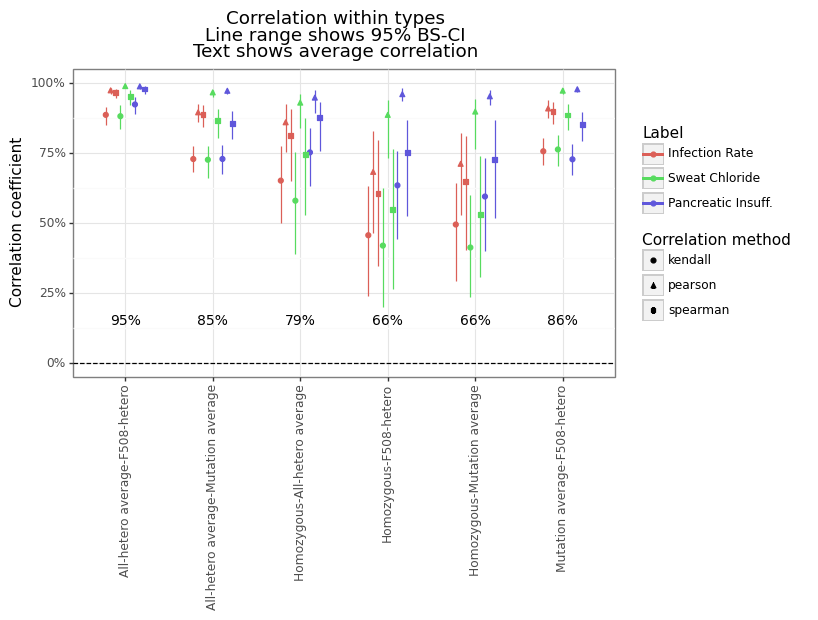
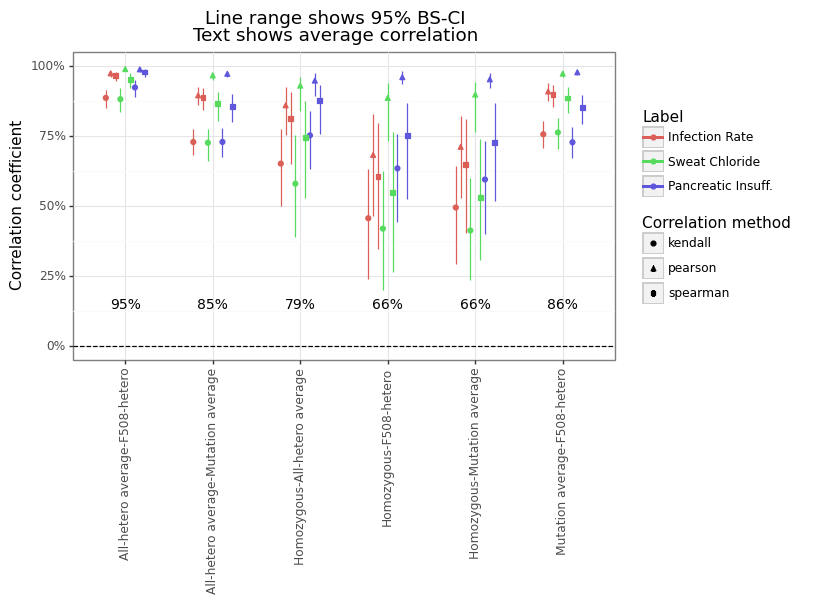
part 1 of revisions to CFTR

diff --git a/_posts/2023-03-20-cftr2_esmfold.md b/_posts/2023-03-20-cftr2_esmfold.md
@@ -9,13 +9,15 @@ mathjax: true
 
 # Executive summary
 
-This shows how embeddings from the [ESMFold](https://github.com/facebookresearch/esm) model can be used to predict (average) clinical outcomes for different Cystic Fibrosis (CF) genotypes (mutations). This technical post serves as a complement to bioRxiv paper (under development), "Association between Cystic Fibrosis outcomes ESMFold Embeddings". A summary of this post and the paper is as follows:
+Embeddings from the [ESMFold](https://github.com/facebookresearch/esm) model can be used to predict clinical outcomes for different Cystic Fibrosis (CF) genotypes found in the CFTR2 database. The predictive correlation is both non-trivial and statistically significant. This work goes beyond the usual pathogenic/benign distinction and seeks to estimate average clinical outcomes for key CF-related phenotypes (sweat chloride, pancreatic insufficiency, and infection rates). 
 
-1. There is substantial variation in (average) clinical outcomes: [between mutations](#fig0), [within mutations](#fig9), [between categories](#fig5), and [within categories](#fig6), showing that any ML model needs to predict multiple labels to capture the different aspects of CF mutations' pathogenicity.
-2. Using an off-the-shelf ML model trained on protein folding embeddings from ESMFold obtains non-trivial and statistically significant correlations between the predicted and actual clinical values for a range of categories and labels (see [Figure 14](#fig14)).
-3. ML models improve predictive correlation by up to 13 percentage points (pp) for Pseudomonas infection rate, 36pp for pancreatic insufficiency, and 27pp for sweat chloride levels.
-4. Access to more of the underlying clinical information, additional computational power, and processing could help to double the effective sample size.
-5. This work shows that using ML models trained on features from a protein's fundamental could help to augment existing pathogenicity scores and rank >1000 CFTR-gene mutations found in the CFTR1 database which do not have an established significance in the CFTR2 database.
+A summary of this post and the paper is as follows: 
+
+1. There is substantial variation in (average) clinical outcomes: [between mutations](#fig0), [within mutations](#fig9), [between categories](#fig5), and [within categories](#fig6). Therefore, any ML model needs to be able to predict multiple labels to capture the different aspects of a CF mutation's pathogenicity.
+2. Using an off-the-shelf ML model trained on protein folding embeddings from ESMFold obtains non-trivial and statistically significant correlations between the predicted and actual clinical values for a range of categories and labels (see [Figure 14](#fig14)). 
+3. ML models improve predictive correlation by up to 13 percentage points (pp) for Pseudomonas infection rate, 36pp for pancreatic insufficiency, and 27pp for sweat chloride levels compared to a simple model which uses only the amino acid length. The overall level of correlation ranges from 16-65%. No predictive performance was found for lung function. 
+4. Access to more of the underlying clinical information, additional computational power, and additional processing could double the effective sample size.
+5. Using ML models trained exclusively on CFTR structural forms and clinical outcome categories (sweat chloride, pancreatic function, infection rates) could establish CF-specific pathogenicity scores that go beyond the usual dichotomous predictions of existing tool. There are >1000 CFTR-gene mutations found in the CFTR1 database which do not have an established significance in the CFTR2 database.
 
 The repo used to generate all analyses and figures can be found here: [cftr2_esmfold](https://github.com/ErikinBC/cftr2_esmfold). 
 
@@ -30,9 +32,7 @@ Cystic fibrosis (CF) is a rare autosomal recessive genetic disease that can resu
 
 The disease's etiology is caused by mutations to the cystic transmembrane conductance regulator (CFTR) gene which cause an alteration in the chloride and bicarbonate transport channel regulated by cyclic adenosine monophosphate (cAMP). This can lead to a pathological build up of mucus in the organs, with the most substantial deleterious impact being on the lungs and the pancreas. As of March 20th, 2023, a total of [2114 mutations](http://www.genet.sickkids.on.ca/StatisticsPage.html) have been discovered on the CFTR gene, with 401 of those being identified as [CF-causing](https://cftr2.org/mutations_history). The most common mutation is F508del (aka c.1521_1523delCTT, aka p.Phe508del), which is [present in 82%](https://www.frontiersin.org/articles/10.3389/fphar.2019.01662/full) of the CF population.
 
-Unlike some of the [false hype](https://bioeconometrician.github.io/first_cell/) and [superlatives](https://jamanetwork.com/journals/jamaoncology/fullarticle/2464965) we see in other branches of medicine, the treatment and survival of CF patients have remarkably changed in recent history. Before the use of antibiotics, patients with CF were unlikely to live past their teens since their lung infections could not be treated. 
-
-As of 2019, the [median life expectancy](https://www.ncbi.nlm.nih.gov/pmc/articles/PMC9004282/) of CF patients in the United States was 48 years, although there is a range of about 10 years across wealthy countries.  For example, [Canada](https://www.cbc.ca/news/health/cystic-fibrosis-survival-rates-1.4022970) is a world leader in CF life expectancy (mid-50s). However, the last decade has been a game changer for pharmaceutical-based treatments of CF.
+Unlike some of the [false hype](https://bioeconometrician.github.io/first_cell/) and [superlatives](https://jamanetwork.com/journals/jamaoncology/fullarticle/2464965) we see in other branches of medicine, the treatment and survival of CF patients have remarkably changed in recent history. Historically, before the use of antibiotics, patients with CF were unlikely to live past their teens since their lung infections could not be treated. As of 2019, the [median life expectancy](https://www.ncbi.nlm.nih.gov/pmc/articles/PMC9004282/) of CF patients in the United States was 48 years, although there is a range of about 10 years across wealthy countries.  For example, [Canada](https://www.cbc.ca/news/health/cystic-fibrosis-survival-rates-1.4022970) is a world leader in CF life expectancy (mid-50s). However, the last decade has been a game changer for pharmaceutical-based treatments of CF.
 
 Modern CF-treating drugs rely on a mechanism of action which increases the flow of sodium and chloride ions across the cell membrane to maintain a proper fluid balance. The current state-of-the-art treatment, known as [Trikafta](https://en.wikipedia.org/wiki/Elexacaftor/tezacaftor/ivacaftor), is a combination of three small-molecule different drugs: Ivacaftor, Elexacaftor, and Tezacaftor. The first, Ivacaftor, which is a CFTR channel potentiator, binds to the CFTR protein and increases its ability to open chloride channels. The other two are CFTR correctors, which help the protein form the right 3D shape. 
 
@@ -46,46 +46,36 @@ A [recent Canadian study](https://www.cysticfibrosisjournal.com/article/S1569-19
 
 Mutations to the exonic (protein-coding) region of the CFTR gene can have disease-causing properties because they can alter the amino acid sequence of the gene.[[^1]] For example, patients with the [F508del mutation](https://www.ncbi.nlm.nih.gov/snp/rs113993960#variant_details) are missing three DNA codons which code for the phenylalanine amino acid. Even though the other 1479 amino acids in the gene match the wildtype protein, the absence of this critical amino acid impacts the ability of the different CFTR protein domains (structurally distinct parts of the protein) from coming together. The F508del-CFTR gene is sufficiently degraded in structure that the cell's native proteasome machinery will "throw out" the protein before it can make its way to the cell surface and do its work *vis-a-vis* chloride channels.
 
-The key takeaway of structural biology is at that function follows form at the molecular level. This means that the 3-dimensional structure of a protein significantly impacts its ability to due its job. In contrast, the information that encodes the protein is linear. Regions of the DNA known as exons are converted to mRNA (a 1-to-1 mapping), and then to amino acids (a many-to-one mapping). Proteins are made up of amino acids. There is a deterministic relationship between a sequence of DNA which is transcribed and the sequence of amino acids that will be strung together to form a protein. What is not known *a priori* is how that sequence of amino acids will fold in 3-dimensional space and what structure it will take up. This is often referring to as the "[protein folding](https://en.wikipedia.org/wiki/Protein_folding) problem." 
+The key takeaway of structural biology is that function follows form at the molecular level. This means that the 3-dimensional structure of a protein determines whether the proteins will be able to carry out its function. In contrast, the information that encodes the protein is linear. Regions of the DNA known as exons are converted to mRNA (a 1-to-1 mapping), and then to amino acids (a many-to-one mapping). Proteins are made up of amino acids. There is a deterministic relationship between a sequence of DNA which is transcribed and the sequence of amino acids that will be strung together to form a protein. What is not known *a priori* is how that sequence of amino acids will fold in 3-dimensional space and what structure it will take up. This is often referred to as the "[protein folding](https://en.wikipedia.org/wiki/Protein_folding) problem." 
 
-The fact that an unfolded sequence of amino acids (or polypeptides) always folds to the "correct" shape is somewhat astounding given the astronomical number of combinations in which a protein *could* fold (see [Levinthal's paradox](https://en.wikipedia.org/wiki/Levinthal%27s_paradox)). How exactly proteins do this is still an area of active research, but it is generally understood that proteins fold in a way which minimizes free energy (see [Anfinsen's dogma](https://en.wikipedia.org/wiki/Anfinsen%27s_dogma)). This hypothesis explains why proteins (tend) to fold the same way every time, since they fold in a way which minimizes some optimization problem. 
+The fact that an unfolded sequence of amino acids (or polypeptides) almost always folds to the "correct" shape is somewhat astounding given the astronomical number of combinations in which a protein *could* fold (see [Levinthal's paradox](https://en.wikipedia.org/wiki/Levinthal%27s_paradox)). How exactly proteins do this is still an area of active research, but it is generally understood that proteins fold in a way which minimizes free energy (see [Anfinsen's dogma](https://en.wikipedia.org/wiki/Anfinsen%27s_dogma)). This hypothesis explains why proteins (tend) to fold the same way every time, since they fold in a way which minimizes some optimization problem. 
 
+If we understood exactly why proteins fold the way they do, then we could predict how they would fold. Yet even if we cannot understand the physical mechanism by which this happens, simply being able to predict the 3D shape is useful in and of itself. For example, F508del shows us that knowing the physical shape of the protein helps to explain its [key pathologies](https://www.sciencedirect.com/science/article/pii/S1471489217301285). 
 
-If we understood exactly why proteins fold the way they do, then we could of course predict how they would fold. Yet even if we cannot understand the physical mechanism by which this happens, simply being able to predict the 3D shape is useful in and of itself. For example, F508del shows us that knowing the physical shape of the protein helps to explain its [key pathologies](https://www.sciencedirect.com/science/article/pii/S1471489217301285). 
-
-Enter [AlphaFold](https://www.nature.com/articles/s41586-021-03819-2), a deep learning algorithm which predicts the 3D structure of a protein using a sequence of amino acids as an input. AlphaFold (2018) and AlphaFold2 (2020) were both able to blow their competitors out of the water at the 2018 and 2020 Critical Assessment of Structure Prediction ([CASP](https://en.wikipedia.org/wiki/CASP)) competition. While the claim by some that AlphaFold2 ["solved"](https://www.scientificamerican.com/article/one-of-the-biggest-problems-in-biology-has-finally-been-solved/) the protein folding problem is of course erroneous, it nevertheless has proven to be a ground-breaking and powerful tool for researchers. As [McBride et. al (2022)](https://www.biorxiv.org/content/10.1101/2022.04.14.488301v1.full) put it:
+Enter [AlphaFold](https://www.nature.com/articles/s41586-021-03819-2), a deep learning algorithm which predicts the 3D structure of a protein using a sequence of amino acids as an input. AlphaFold (2018) and AlphaFold2 (2020) were both able to blow their competitors out of the water at the 2018 and 2020 Critical Assessment of Structure Prediction ([CASP](https://en.wikipedia.org/wiki/CASP)) competition. While the claim by some that AlphaFold2 ["solved"](https://www.scientificamerican.com/article/one-of-the-biggest-problems-in-biology-has-finally-been-solved/) the protein folding problem is of course erroneous, it nevertheless has proven to be a ground-breaking and powerful tool for researchers. As [McBride et al. (2022)](https://www.biorxiv.org/content/10.1101/2022.04.14.488301v1.full) put it:
 
 > AF2 can clearly predict global structure, yet we do not know whether it is sensitive
 enough to detect small, local effects of single mutations. Even if AF2 achieves high accuracy, the effect of a mutation may be small compared to the inherent conformational dynamics of the protein – predicting static structures may not be particularly informative. Furthermore, as accuracy improves, evaluating the quality of predictions becomes increasingly complicated by the inherent noise in experimental measurements.
 
-Indeed, two articles (see [Pak et. al (2023)](https://journals.plos.org/plosone/article?id=10.1371/journal.pone.0282689) and [Buel & Walters (2022)](https://www.nature.com/articles/s41594-021-00714-2)) suggest that AlphaFold's output have limited correlation for predicting the impact of mutations relative to the wildtype. And while McBride and other papers find different results, there is clearly an opportunity for more research to determine when these protein folding models can provide insight on the effects of small mutations.
+Indeed, two articles (see [Pak et al. (2023)](https://journals.plos.org/plosone/article?id=10.1371/journal.pone.0282689) and [Buel & Walters (2022)](https://www.nature.com/articles/s41594-021-00714-2)) suggest that AlphaFold's output have limited correlation for predicting the impact of mutations relative to the wildtype. And while McBride and other papers find different results, there is clearly an opportunity for more research to determine when these protein folding models can provide insight on the effects of small mutations.
 
-One element of the AlphaFold secret sauce was the use of "multiple sequence alignments" (MSAs) which compared an input amino acid sequence to a database of known sequences across species. The idea behind using this information is that while the amino acid sequence for the same gene across species may vary substantially, the protein shape itself should be fairly similar. In case of CFTR, we should expect this core chloride channel function to be preserved for humans as much as it is for mice, giraffes, or any other mammal with lungs and a pancreas, since evolution would not tolerate mutations which lead to a protein shape that could not facilitate ion crossing. The problem with using deep learning systems based on MSAs is that while they might tell you what a normal shape should be, they could be less helpful for abnormal shapes. Furthermore, running the MSA algorithm can add hours to inference. 
+One element of the AlphaFold secret sauce was the use of "multiple sequence alignments" (MSAs) which compare an input amino acid sequence to a database of known sequences across species. The idea behind using this information is that while the amino acid sequence for the same gene across species may vary, the protein shape itself should be similar. In case of CFTR, we should expect this core chloride channel function to be preserved for humans as much as it is for mice, giraffes, or any other mammal with lungs and a pancreas, since evolution would not tolerate mutations which lead to a protein shape that could not facilitate ion crossing. The problem with using deep learning systems based on MSAs is that while they might tell you what a normal shape should be, they could be less helpful for abnormal shapes. Furthermore, running the MSA algorithm can add hours to inference. 
 
-One powerful alternative to AlphaFold is Meta's [ESMFold](https://www.biorxiv.org/content/10.1101/622803v4.full.pdf), which was trained using self-supervised learning techniques from natural language processing (basically given a truncated real amino acid sequence predict the next amino acid). One advantage of this algorithm is that it can be run much faster and (presumably) its key information can be found in its internal representations (also known as embeddings).
+An alternative to AlphaFold is Meta's [ESMFold](https://www.biorxiv.org/content/10.1101/622803v4.full.pdf), which was trained using self-supervised learning techniques from natural language processing (basically given a truncated real amino acid sequence predict the next amino acid). One advantage of this algorithm is that it can be run much faster and (presumably) its key information can be found in its internal representations (also referred to as embeddings).
 
-## Existing literature 
+## Existing literature
 
-Developing Gene-Specific Meta-Predictor of Variant Pathogenicity
-https://www.biorxiv.org/content/10.1101/115956v1.abstract
->  We used such a supervised gene-specific meta-predictor approach to train the model on the CFTR gene, and to predict pathogenicity of about 1,000 variants of unknown significance that we collected from various publicly available and internal resources. Our CFTR-specific meta-predictor based on the Random Forest model performs better than other machine learning algorithms that we tested, and also outperforms other available tools, such as CADD, MutPred, SIFT, and PolyPhen-2. Our predicted pathogenicity probability correlates well with clinical measures of Cystic Fibrosis patients and experimental functional measures of mutated CFTR proteins.
+There are a substantial number of bioinformatics tools for predicting the pathogenicity of mutations (see for example [SIFT 4G](https://www.nature.com/articles/nprot.2015.123), [Polyphen-2](https://www.nature.com/articles/nmeth0410-248), [PROVEAN](https://www.ncbi.nlm.nih.gov/pmc/articles/PMC4528627/) and [FATHMM](https://pubmed.ncbi.nlm.nih.gov/23033316/)). These tools usually fall into one of three categories: i) sequence based tools, ii) structure based tools, or iii) [dynamics based tools](https://www.pnas.org/doi/10.1073/pnas.1715896115). There is an equally large literature on how to stack these tools to improve performance (see [Lai et al. (2021)](https://academic.oup.com/bioinformaticsadvances/article/2/1/vbab045/6483096#381334522); [Ioannidis et al. (2016)](https://www.ncbi.nlm.nih.gov/pmc/articles/PMC5065685/) for examples). 
 
-Stability Prediction for Mutations in the Cytosolic Domains of Cystic Fibrosis Transmembrane Conductance Regulator
-https://pubs.acs.org/doi/full/10.1021/acs.jcim.0c01207
-> The ability to predict the effect of mutations on the stability of the cytosolic domains of CFTR and to shed light on the mechanisms by which they exert their effect is therefore important in CF research. With this in mind, we have predicted the effect on domain stability of 59 mutations in NBD1 and NBD2 using 15 different algorithms and evaluated their performances via comparison to experimental data using several metrics including the correct classification rate (CCR), and the squared Pearson correlation (R2) and Spearman’s correlation (ρ) calculated between the experimental ΔTm values and the computationally predicted ΔΔG values. Overall, the best results were obtained with FoldX and Rosetta.
+As most pathogenic mutations appear to affect protein stability (see [Wang and Moult (2001)](https://pubmed.ncbi.nlm.nih.gov/11295823/)), protein folding models may be able to produce useful signals for predicting disease severity. Even in the pre-AlphaFold era, classifiers that took into account 3D structures showed some success (see [Adzhubei et al., 2010](https://www.ncbi.nlm.nih.gov/pmc/articles/PMC2855889/); [Capriotti and Altman, 2011](https://bmcbioinformatics.biomedcentral.com/articles/10.1186/1471-2105-12-S4-S3)). [Schmidt et al. (2022)](https://www.biorxiv.org/content/10.1101/2022.03.05.483091v1) has shown that an ML model trained on AlphaFold features (referred to as AlphaScore in the paper) improved the accuracy of pathogenicity predictions when combined with other tools. However this finding has not been universal (see [Pak et al. (2023)](https://journals.plos.org/plosone/article?id=10.1371/journal.pone.0282689) and [Buel & Walters (2022)](https://www.nature.com/articles/s41594-021-00714-2)).
 
-Determining the pathogenicity of CFTR missense variants: Multiple comparisons of in silico predictors and variant annotation databases
-https://www.ncbi.nlm.nih.gov/pmc/articles/PMC6905453/
-> Results showed that most predictors were not reliable when analyzing CFTR missense variants, ratifying the importance of clinical information when asserting the pathogenicity of CFTR missense variants. Our results should contribute to clarify decision making when classifying the pathogenicity of CFTR missense variants.
+The use of existing tools for predicting the pathogenicity of missense mutations on the CFTR gene has been mixed, with [Niroula & Vihinen (2017)](https://onlinelibrary.wiley.com/doi/10.1002/humu.23173) showing relatively high sensitivity and specificity, whilst [Michels et al. (2019)](https://www.ncbi.nlm.nih.gov/pmc/articles/PMC6905453/) found the less accurate results when using a larger sample of CFTR mutations. Earlier work by [Masica et al. (2012)](https://www.ncbi.nlm.nih.gov/pmc/articles/PMC4364283/) showed that CFTR-specific phenotype-optimized sequence ensembles (POSEs) could outperform off-the-shelf sequence based tools. 
 
-Predicting the pathogenicity of missense variants using features derived from AlphaFold2
-https://www.biorxiv.org/content/10.1101/2022.03.05.483091v1
-> AlphScore alone showed lower performance than existing scores, such as CADD or REVEL. However, when AlphScore was added to those scores, the performance always increased, as measured by the approximation of deep mutational scan data, as well as the prediction of expert-curated missense variants from the ClinVar database. Overall, our data indicate that the integration of AlphaFold2 predicted structures can improve pathogenicity prediction of missense variants.
+[Rychkova et al. (2017)](https://www.biorxiv.org/content/10.1101/115956v1.abstract) used a CFTR-specific approach by combining 35 different features ranging from existing bioinformatics tools to CFTR-specific protein information. The paper also showed that the predicted pathogenicity probability was correlated to both chloride conductance and sweat chloride levels using data from from [Sosnay et al. (2013)](https://www.ncbi.nlm.nih.gov/pmc/articles/PMC3874936/pdf/nihms-512446.pdf) and the Stanford CF Center (Figure 4 in the paper). Only patients heterozygous for F508del mutation were included. As far as this author knows, this is the only paper in the CF literature that explicitly correlates mutational pathogenicity generated from a model to CF-specific clinical outcomes.
 
+[Bahia et al. (2021)](https://pubs.acs.org/doi/full/10.1021/acs.jcim.0c01207) used two deep learning models (FoldX and [Rosetta]([RoseTTA](https://www.science.org/doi/10.1126/science.abj8754))) to predict domain stability on NBD1 and NBD2 of the CFTR gene and partial alignment to experimental results. However the paper looked at a small number of mutations (59) and did not link this to any clinical outcomes. Like Rychkova et al. (2017), this analysis correlates a predicted measure to a level of clinical severity, but uses a deep learning based structural model like Bahia et al. (2021) to obtain mutational features. 
 
-Predicting Severity of Disease-Causing Variants 
-https://pubmed.ncbi.nlm.nih.gov/28070986/
->  We obtained 70 CFTR variants (49 CF-causing, 10 non-CF-causing, 10 with variable clinical significance, and 1 unknown significance) along with the average salt chloride concentration of the patients. PON-PS predicted 39 variants as severe, 30 variants as non-severe, and 1 variant as benign (Supplementary Table S6). Out of the 49 CF-causing variations, 34 were predicted to be severe and 7 of the 10 non-CF-causing and 8 of the 10 variants of variable significance were predicted to be non-severe. 
+The results of the analysis stand out from the existing literature in three ways. First, I consider multiple clinical outcomes types (e.g. not only sweat chloride) and label constructions (e.g. not only F508del heterozygotes). Second, the model is fine-tuned to make predictions directly on CF-specific clinical outcomes rather than binary/ordinal pathogenicity categorizations. Third, by using the embeddings from the ESMFold model, I am able to make predictions for multiple mutation types including insertions, deletions, and duplications, rather than just missense mutations as is done in most of the literature.
 
 <br>
 
@@ -100,17 +90,17 @@ Until 2010 the [CFTR1 database](http://www.genet.sickkids.on.ca/), maintained by
 1. An [up-to-date list](https://cftr2.org/mutations_history) of established CF-causing mutations (402)
 2. Phenotypic averages for different genotype combinations (for both single and two-variant combinations)
 
-The website makes it clear that it "should not be used to predict the clinical course of individual patients." As of March 20th, 2023, the CFTR2 database had data on 89,052 patients, and phenotypical information for i) sweat chloride measurement (mEq/L), ii) Lung function (FEV1% = Forced Expiratory) for ages <10, 10-20, and 20+, iii) % of patients with pancreatic insufficiency, % of patients who have had a Pseudomonas infection. The image below shows an example of the CFTR2 database for a homozygous F508del genotype. 
+The website makes it clear that it "should not be used to predict the clinical course of individual patients." As of March 20th, 2023, the CFTR2 database had data on 89,052 patients, and phenotypical information for i) sweat chloride measurement (mEq/L), ii) lung function (FEV1% = Forced Expiratory) for three age ranges (<10, 10-20, and 20+), iii) % of patients with pancreatic insufficiency, and iv) % of patients who have had a Pseudomonas infection. The image below shows an example of the CFTR2 database for a homozygous F508del genotype. 
 
 <center><h3><b> Example of CFTR2 page for F508-F508 genotype   </b></h3></center>
 <center><p><img src="/figures/cftr2_webpage.png" width="80%"></p></center>
 <br>
 
-There is a tremendous amount of variation across genotypes in the clinical outcomes we observe for different mutations. The figure below shows the empirical CDF for different values of the F508del heterozygous mutations (except for F508del itself which is homozygous). Each dot in each figure corresponds to a different genotype (pair of mutations) which have been ordered along the x-axis. The text highlights the (relatively) mild [R347H-F508del](https://cftr2.org/mutation/general/R347H/F508del) genotype to the more severe [F508del-F508del](https://cftr2.org/mutation/general/F508del/F508del) genotype. The extent of this variation suggests that structural factors of the mutations would likely be able to explain part of this variation.
+There is a tremendous amount of variation across genotypes in the clinical outcomes we observe for different mutations. The figure below shows the empirical CDF for different values of the F508del heterozygous mutations (except for F508del itself which is homozygous). Each dot in each figure corresponds to a different genotype (pair of mutations) which have been ordered along the x-axis. The text highlights the (relatively) mild [R347H-F508del](https://cftr2.org/mutation/general/R347H/F508del) genotype to the more severe [F508del-F508del](https://cftr2.org/mutation/general/F508del/F508del) genotype. The extent of this variation suggests that the structural factors of CFTR mutations could play some role in rank ordering this outcomes. 
 
 <br>
 <a name="fig0"></a>
-<center><p><img src="/figures/ydist_f508.png" width="90%"></p></center>
+<center><p><img src="/figures/ydist_f508.png" width="95%"></p></center>
 <br>
 
 <a name="pipeline"></a>
@@ -122,11 +112,11 @@ The diagram below provides an overview of the scripts that are used to prepare t
 <center><p><img src="/figures/cftr2_flowchart.png" width="80%"></p></center>
 <br>
 
-The first script, [1_scrape_cftr2](https://github.com/ErikinBC/cftr2_esmfold/blob/main/1_scrape_cftr2.py), loops over the list of mutations from the CFTR2 website (see [cftr2_mutation.json](https://cftr2.org/json/cftr2_mutations)).[[^4]] A total of 417 single-variant mutation data was scraped. Note that if data is missing for a single-variant, it will always be missing for a two-variant combinations since the population size can only shrink. The CFTR2 imposes a small-cell limit of 5, so that not observation with 5 or fewer patients has an observations, whereas all non-missing observations have at least 6 patients.
+The first script, [1_scrape_cftr2](https://github.com/ErikinBC/cftr2_esmfold/blob/main/1_scrape_cftr2.py), loops over the list of mutations from the CFTR2 website (see [cftr2_mutation.json](https://cftr2.org/json/cftr2_mutations)).[[^4]] A total of 417 single-variant mutation data was scraped. Note that if data is missing for a single-variant, it will always be missing for a two-variant combinations since the population size can only shrink. The CFTR2 imposes a small-cell limit of 5, so that no observation with 5 or fewer patients has an observation, whereas all non-missing observations have at least 6 patients.
 
-A total of $296 \choose 2$=43660 plus 296 homozygous pairs could possible have data. Instead of running all of these combinations, I multiplied the allele frequency of in the individual variants together, and sorted the estimated allele frequency of the two-variant pairs to the top 25000 pairs. Past the first thousand or so ranked pairs, the odds of finding one that has a CFTR2 page, let alone non-missing data becomes increasingly rare. A total of 1885 mutation pairs that were obtained from CFTR2 (of which 294 are F508 heterozygous and 169 are homozygous). 
+A total of $296 \choose 2$=43660 plus 296 homozygous pairs could possibly have data. Instead of running all of these combinations, I multiplied the allele frequency of in the individual variants together, and sorted the estimated allele frequency of the two-variant pairs to the top 25000 pairs. Past the first thousand or so ranked pairs, the odds of finding one that has a CFTR2 page, let alone non-missing data becomes increasingly rare. A total of 1885 mutation pairs were obtained from CFTR2 (of which 294 are F508 heterozygous and 169 are homozygous). 
 
-[Figure 1](#fig1) provides a visual breakdown of these numbers, where "number of measurements" is the number of non-missing measurements for one of the four phenotypes, and "paired alleles" is whether it is the single of two-variant combinations. As we can see, the number of genotypes with at least one value (296) represents most of the data (~70%), we most of those have three or four measurements (out of four). In contrast for the two-variant combination, only 369 of the 1885 mutations (~20%) have at least measurement. Of these 369 non-completely missing two-variant pairs F508del accounts for 219 of them (~60%), and there were a total of 294 two-variant F508del pairs (~75%). In summary, the two-variant pair is very much an F508del affair.
+[Figure 1](#fig1) provides a visual breakdown of these numbers, where "number of measurements" is the number of non-missing measurements for one of the four phenotypes, and "paired alleles" refers to whether it is the single or two-variant combination. As we can see, the number of single-variant genotypes with at least one value (296) represents most of the data (~70%), with most of there having three or four measurements (out of four). In contrast for the two-variant combination, only 369 of the 1885 mutations (~20%) have at least measurement. Of these 369 non-completely missing two-variant pairs F508del accounts for 219 of them (~60%), and there were a total of 294 two-variant F508del pairs (~75%). In summary, the two-variant pair is very much an F508del affair.
 
 <br>
 <a name="fig1"></a>
@@ -135,7 +125,7 @@ A total of $296 \choose 2$=43660 plus 296 homozygous pairs could possible have d
 <br>
 
 
-The second script, [2_get_ncbi](https://github.com/ErikinBC/cftr2_esmfold/blob/main/2_get_ncbi.py), search google for each of the 417 variants, and extracts any possible NCBI links for each variant (there can be more than one). The [3_scrape_ncbi](https://github.com/ErikinBC/cftr2_esmfold/blob/main/3_scrape_ncbi.py) script then loads the cached copy of the NCBI pages, and extracts the address of the GRCh38 NCBI Variation Viewer.[[^5]] A simple parse of this address then determines the genomic location. 
+The second script, [2_get_ncbi](https://github.com/ErikinBC/cftr2_esmfold/blob/main/2_get_ncbi.py), search google for each of the 417 variants, and extracts any possible NCBI links (there can be more than one). The [3_scrape_ncbi](https://github.com/ErikinBC/cftr2_esmfold/blob/main/3_scrape_ncbi.py) script then loads the cached copy of the NCBI pages, and extracts the address of the GRCh38 NCBI Variation Viewer.[[^5]] A simple parse of this address then determines the genomic location. 
 
 Because there can be multiple NCBI pages matched to each mutation, the following process is used to determine the final match.
 
@@ -177,9 +167,9 @@ For example, there were two synonymous mutations that were stripped out of the i
 
 From the [forward pass](https://huggingface.co/docs/transformers/model_doc/esm#transformers.EsmForProteinFolding.forward), the following embeddings were extracted:
 
-1. `s_s`: `(1, n_amino, 1024)` — Per-residue embeddings derived by concatenating the hidden states of each layer of the ESM-2 LM stem.
-2. `s_z`: `(1, n_amino, n_amino, 128)`  — Pairwise residue embeddings.
-3. `states`: `(8,1,n_amino,384)` — Hidden states from the protein folding trunk.
+1. `s_s` - `(1, n_amino, 1024)`: Per-residue embeddings derived by concatenating the hidden states of each layer of the ESM-2 LM stem.
+2. `s_z` - `(1, n_amino, n_amino, 128)`: Pairwise residue embeddings.
+3. `states` - `(8,1,n_amino,384)`: Hidden states from the protein folding trunk.
 
 <br>
 <a name="fig4"></a>
@@ -200,7 +190,7 @@ In order to use off-the-shelf ML algorithms (e.g. XGBoost, NNets, etc) we need t
 1. The average, min, max, and standard deviation of all dimensions from each embedding are taken except the last.
 2. The average, min, max, and standard deviation of the cosine similarities between the wildtype and mutant CFTR embeddings are calculated.
 
-The first approach simply calculates the mean over all dimensions except the last. For example `s_s` is a (1, `n_amino`, 1024) matrix, so we simply take the mean over dimensions 1 & 2 and get back a vector of length 1024. This is repeated for the min, max, and standard deviation. The final dimensionality is equivalent to 4(384 (`states`) + 1024 (`s_s`) + 128 (`s_z`))=6144.
+The first approach simply calculates the mean over all dimensions except the last. For example, `s_s` is a (1, `n_amino`, 1024) matrix, so we simply take the mean over dimensions 1 & 2 and get back a vector of length 1024. This is repeated for the min, max, and standard deviation. The final dimensionality is equivalent to 4(384 (`states`) + 1024 (`s_s`) + 128 (`s_z`))=6144.
 
 The second approach is a bit more involved. Before calculating the cosine similarity, the matrices are reduced to two dimensions. For `s_s` this is easy, and the first dimension is simply flattened ((1, n_amino, 1024) becomes (n_amino, 1024)). For `states`, the average is taken ((8,1,n_amino,384) becomes (n_amino,384)). For `s_z` the diagonal is taken ((1, n_amino, n_amino, 128) becomes (n_amino, 128)). Next, we calculate the cosine similarity between the wildtype and the mutant for each, and get back three matrices of dimension: (1480,n_amino), where the i,j'th entry corresponds to the cosine similarity of wildtype dimension i and mutant dimension j for the respective embeddings. Like the first approach, the mean, min, max, and standard deviation are calculated across the rows giving a total of $4\cdot 3 \cdot 1480=17760$ features. 
 
@@ -219,7 +209,7 @@ While there is one set of feature measurements for each genotype (mutation), the
 <center><p><img src="/figures/rho_f508.png" width="70%"></p></center>
 <br>
 
-The rest of this section describes how the final number of phenotype categories were determined (15) along with the four different approaches to calculating each category. This led to a total of 60 different labels (although most of these were not used during model training).
+The rest of this section describes how the preliminary number of phenotype categories were determined (15) along with the four different approaches to calculating each category. This led to a total of 60 different possible labels (although most of these were not used during model training).
 
 ### Lung function
 
@@ -255,14 +245,14 @@ Four label types were used calculate for each mutation:
 
 <br>
 <a name="fig9"></a>
-<center><h3><b>Figure 9: Range of heterozygous outcomes  </b></h3></center>
+<center><h3><b>Figure 9: Range of heterozygous outcomes to F508del  </b></h3></center>
 <center><p><img src="/figures/f508_hetero_comp.png" width="70%"></p></center>
 <br>
 
 
 ## Adjusting for confounding
 
-One thing that became clear after some exploratory analysis was that the ML models were basing their predictions based on a confounding relationship: mutations whose CFTR gene was about the same length as the wildtype (~1480) had better clinical outcomes than those mutations with stop codons inserted early (see [Figure 10](#fig10)), particularly for sweat chloride and pancreatic insufficiency. Anywhere from 2-11% of the phenotypic variation can be explained by simply knowing the length of the polypeptide chain to the first stop codon. The [7_debias_y](https://github.com/ErikinBC/cftr2_esmfold/blob/main/7_debias_y.py) script uses a leave-one-out [Nadarya-Watson](https://en.wikipedia.org/wiki/Kernel_regression) kernel regression method to get the "length-adjusted" clinical phenotype value. This both ensures that any predictive model will not be confounded by amino acid length, but also provides an estimate of how much additional correlation comes from the embeddings.
+One thing that became clear after some exploratory analysis was that the ML models were basing their predictions based on a confounding relationship: mutations whose CFTR gene was about the same length as the wildtype (~1480) had better clinical outcomes than those mutations with stop codons inserted early, particularly for sweat chloride and pancreatic insufficiency. Up to 43% of the clinical variation can be explained by simply knowing the length of the polypeptide chain to the first stop codon (see [Figure 10](#fig10)). The [7_debias_y](https://github.com/ErikinBC/cftr2_esmfold/blob/main/7_debias_y.py) script uses a leave-one-out [Nadarya-Watson](https://en.wikipedia.org/wiki/Kernel_regression) kernel regression method to get the "length-adjusted" clinical phenotype value. This both ensures that any predictive model will not be confounded by amino acid length, but also provides an estimate of how much additional correlation comes from the embeddings. For any prediction where the R-squared was less than zero, the label intercept was used instead of the NW estimator (in practice, this meant the homozygous infection rate). 
 
 <br>
 <a name="fig10"></a>
@@ -292,14 +282,20 @@ Given the small sample size, a dedicated testing set was not possible, so instea
 
 ## Performance
 
-The overall correlation between the predicted and actual length-adjusted outcomes ranged from 2-40%. [Figure 12](#fig12) shows the level of performance for three different measures: [Pearson's r](https://en.wikipedia.org/wiki/Pearson_correlation_coefficient), [Spearman's rho](https://en.wikipedia.org/wiki/Spearman%27s_rank_correlation_coefficient), and [Somers' D](https://en.wikipedia.org/wiki/Somers%27_D). Pearson's method captures the degree of linear correlation, while Spearman and Somer are non-parametric methods. The average correlation across categories and labels tends to be more conservative for Somer's D (14%) and similar for Pearson's r (22%) and Spearman's rho (21%). 
+The overall correlation between the predicted and actual length-adjusted outcomes ranged from 2-40%. [Figure 12A](#fig12a) shows the level of performance for three different measures: [Pearson's r](https://en.wikipedia.org/wiki/Pearson_correlation_coefficient), [Spearman's rho](https://en.wikipedia.org/wiki/Spearman%27s_rank_correlation_coefficient), and [Somers' D](https://en.wikipedia.org/wiki/Somers%27_D). Pearson's method captures the degree of linear correlation, while Spearman and Somer are non-parametric methods. The average correlation across categories and labels tends to be more conservative for Somer's D (14%) and similar for Pearson's r (22%) and Spearman's rho (21%). 
 
 The predicted to actual phenotype value can be seen in [Figure 13](#fig13) for all label types. Some labels tend to have more missing data (homozygous), while sweat chloride category has the most samples overall. The figure highlights the relative position of the predicted phenotypes for F508del and R347H. As noted before, the former is a more severe mutation compared to the latter, and the predicted values reflect this difference.
 
 <br>
-<a name="fig12"></a>
-<center><h3><b>Figure 12: Predictive correlation for ESMFold-NNet model  </b></h3></center>
+<a name="fig12a"></a>
+<center><h3><b>Figure 12A: Predictive correlation for ESMFold-NNet model  </b></h3></center>
 <center><p><img src="/figures/oof_perf.png" width="80%"></p></center>
+
+<a name="fig12b"></a>
+<center><h3><b>Figure 12B: Predictive correlation for ESMFold-NNet model  </b></h3></center>
+<center><p><img src="/figures/oof_perf_msr.png" width="80%"></p></center>
+
+
 <a name="fig13"></a>
 <center><h3><b>Figure 13: Predicted vs actual (adjusted outcome) for ESMFold-NNet model </b></h3></center>
 <center><p><img src="/figures/oof_scatter.png" width="75%"></p></center>
